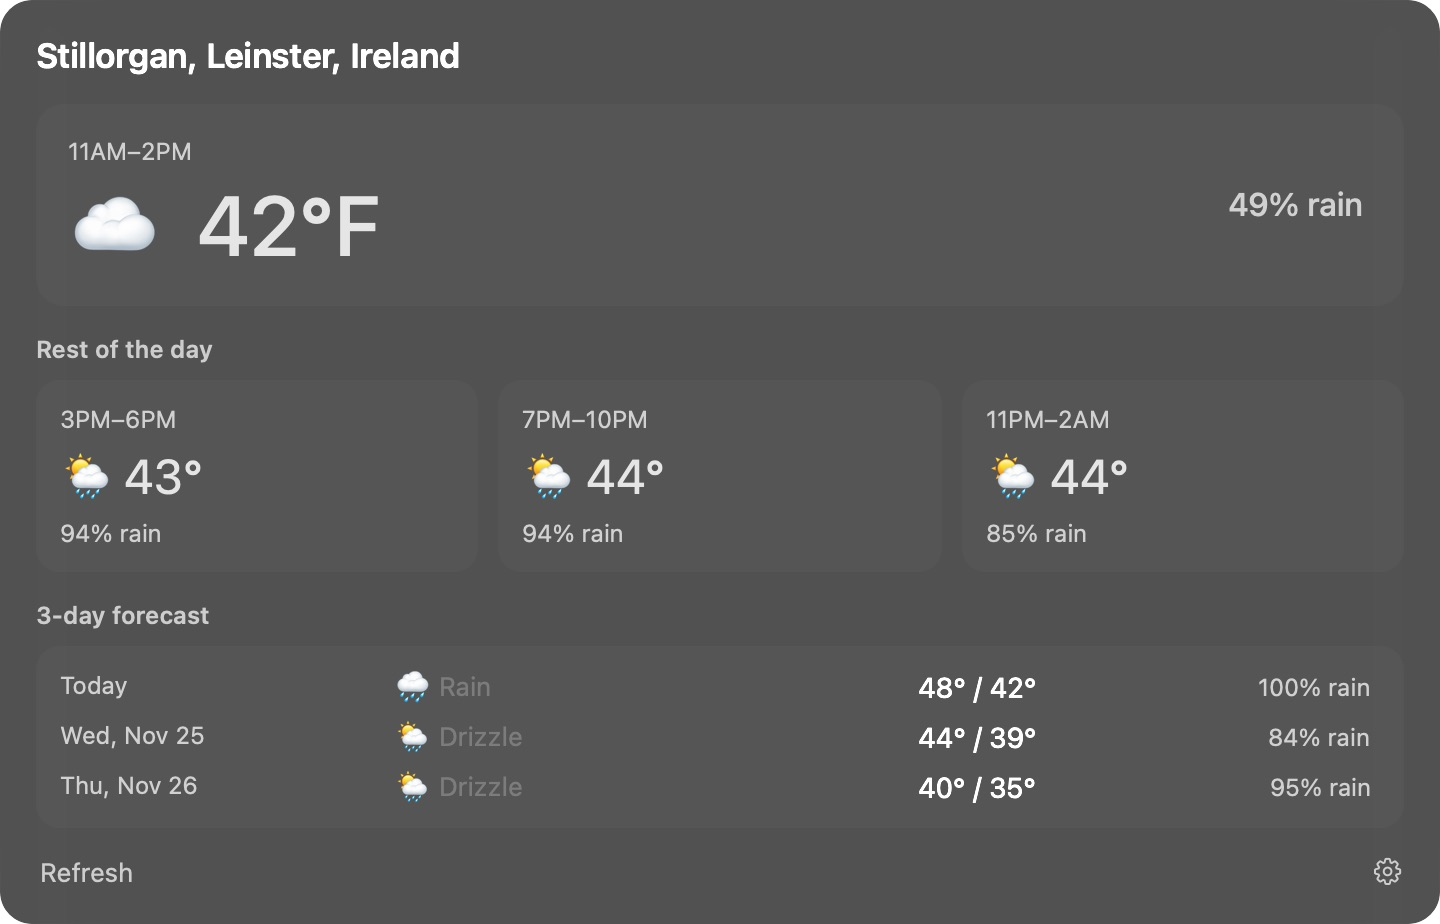
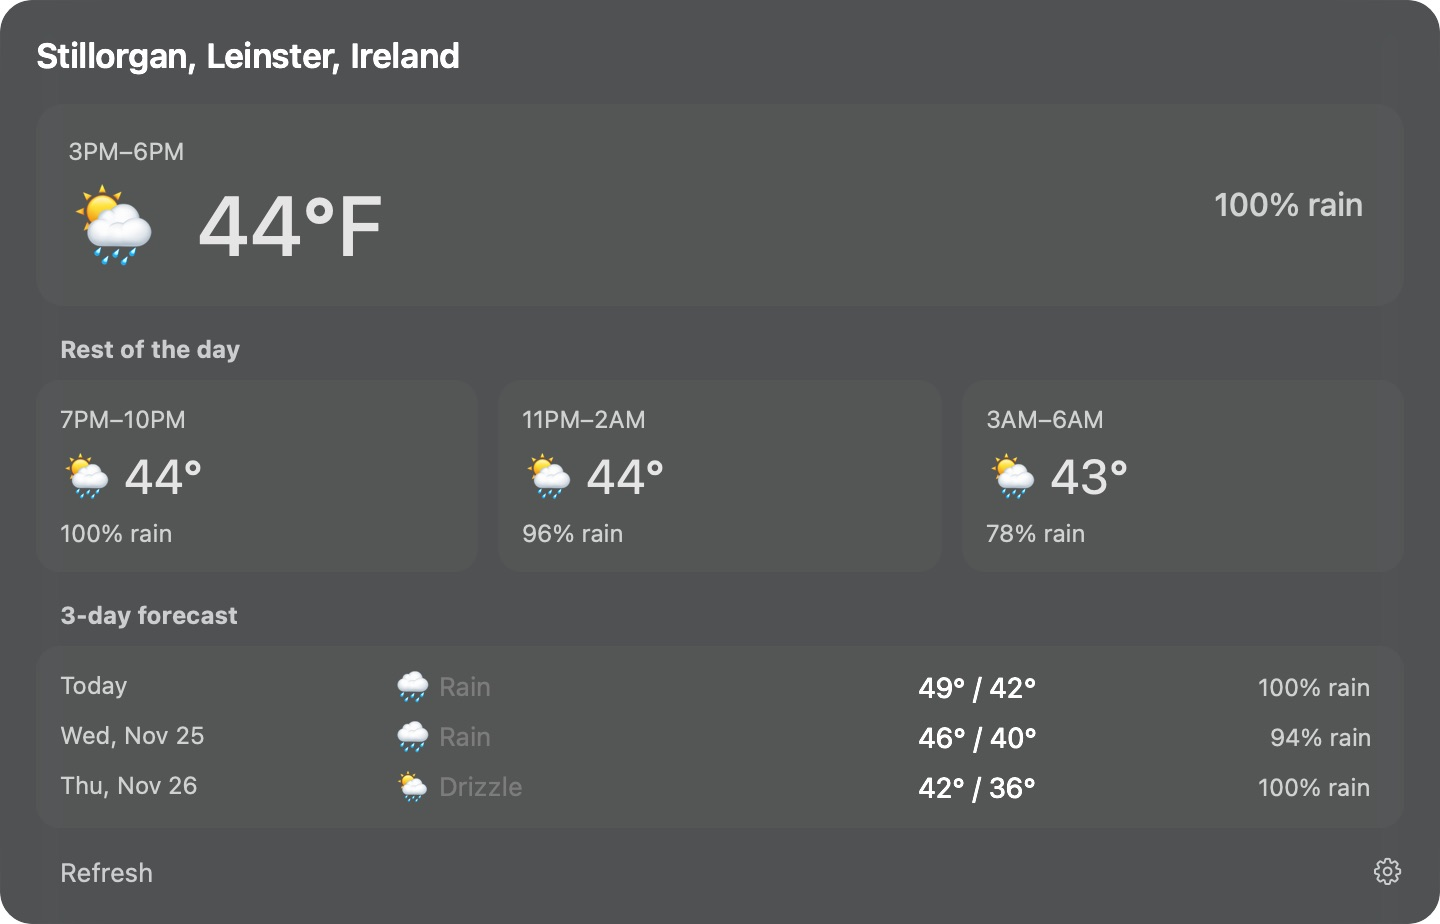
Align Weather subheadings and refresh README screenshots

diff --git a/weather/VERIFICATION.md b/weather/VERIFICATION.md
@@ -49,3 +49,7 @@ Replaced the daily forecast cards with three compact, aligned rows in one rounde
 ## README screenshots — 24 November 2026
 
 Captured the real installed Alfred forecast and settings views and added both screenshots to the README. All twelve tests and the whitespace check passed before merging. Keyboard shortcuts remain deferred.
+
+## Heading alignment — 24 November 2026
+
+Made Rest of the day and 3-day forecast bold and inset them 12 points to align with the box contents. Inset Refresh to the same visible text alignment. Installed and visually verified in Alfred, then refreshed both README screenshots. All twelve tests pass.
